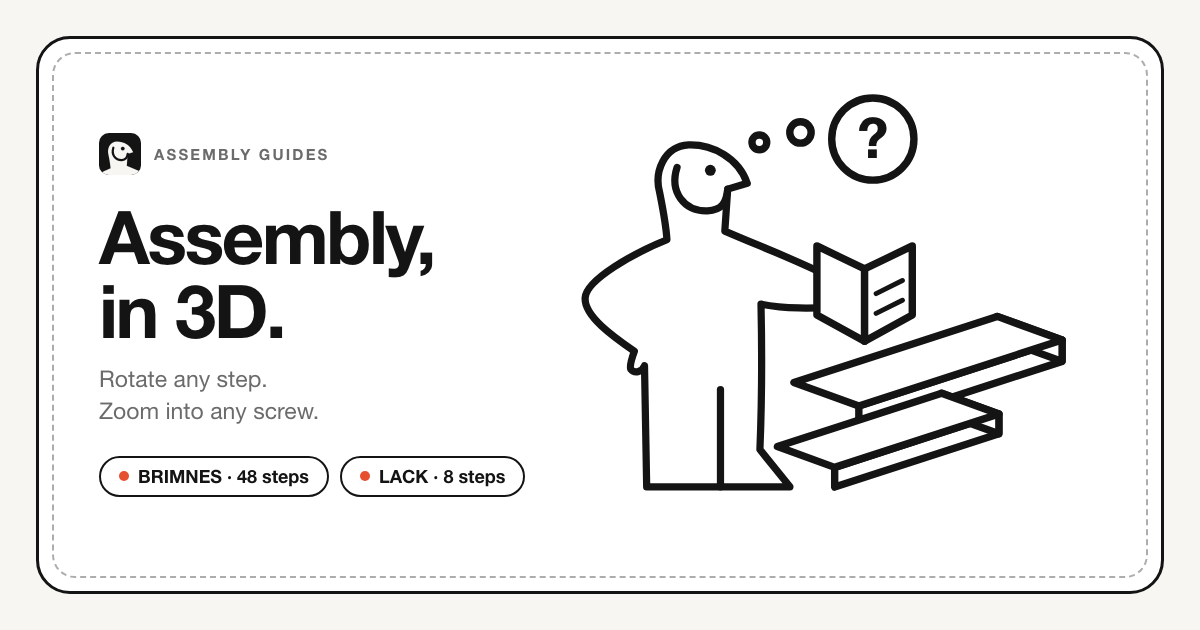
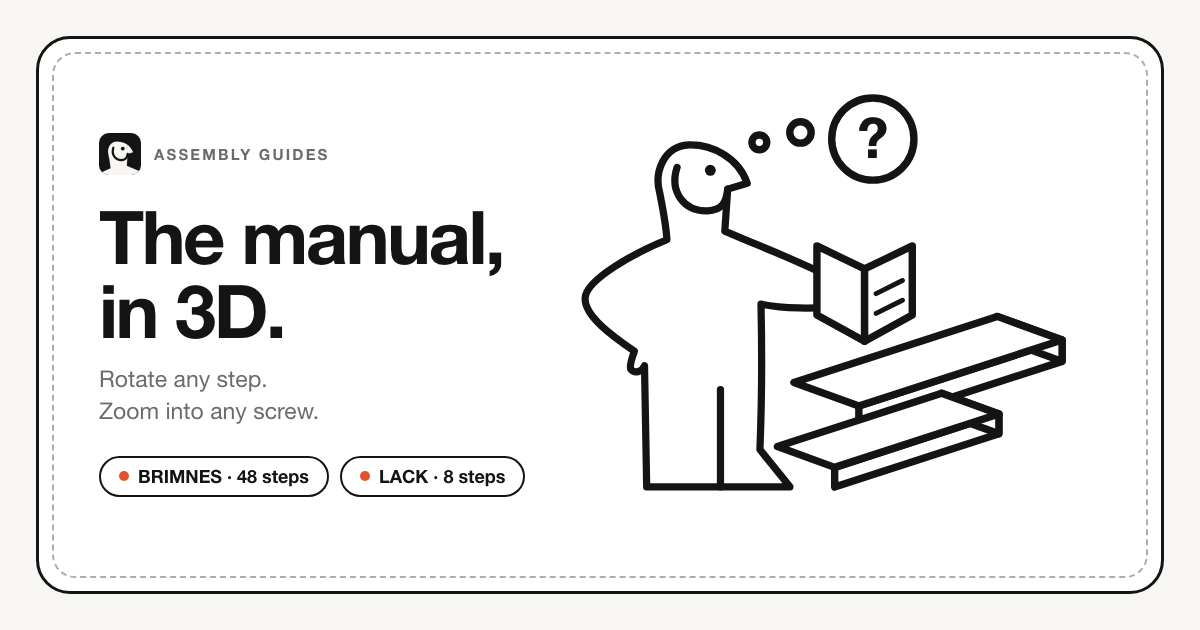
fix: new preview headline

Changed region(s): [[0.0617, 0.3317, 0.4317, 0.4524]]

diff --git a/assets/og-source.html b/assets/og-source.html
@@ -28,7 +28,7 @@
   <div class="page">
     <div class="copy">
       <div class="mark"><img src="favicon.svg" alt="">ASSEMBLY GUIDES</div>
-      <h1>Assembly,<br>in 3D.</h1>
+      <h1>The manual,<br>in 3D.</h1>
       <p>Rotate any step.<br>Zoom into any screw.</p>
       <div class="chips">
         <span class="chip"><span class="dot"></span>BRIMNES · 48 steps</span>
